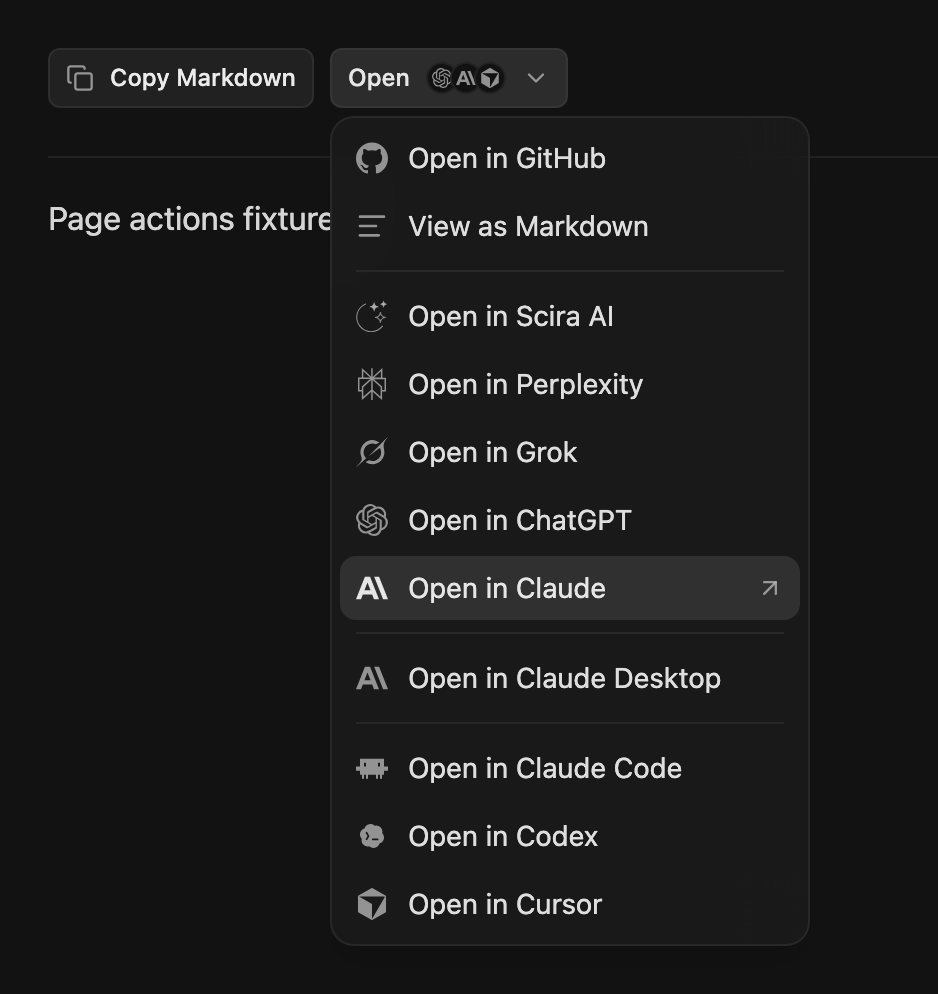
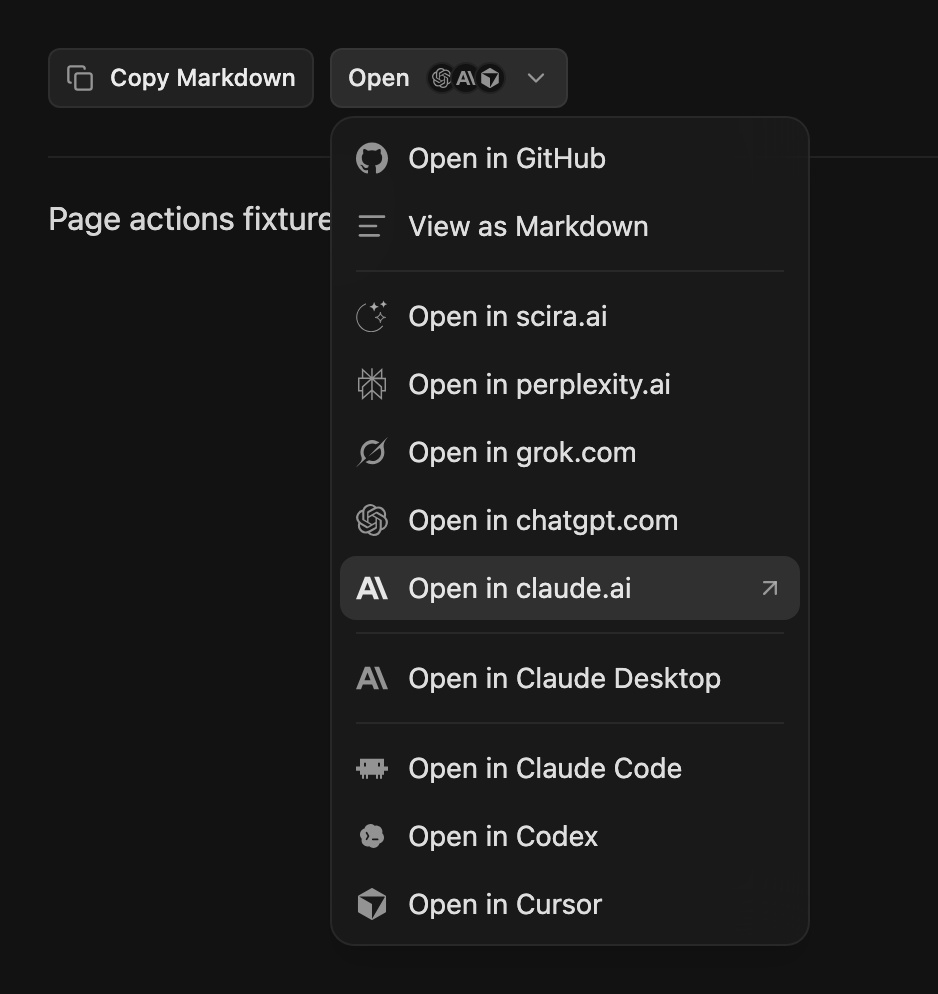
feat(page-actions): name web chats by domain and refine prompt

diff --git a/test/popover.browser.test.tsx b/test/popover.browser.test.tsx
@@ -23,11 +23,11 @@ const props: ViewOptionsPopoverProps = {
 const allTitles = [
   'Open in GitHub',
   'View as Markdown',
-  'Open in Scira AI',
-  'Open in Perplexity',
-  'Open in Grok',
-  'Open in ChatGPT',
-  'Open in Claude',
+  'Open in scira.ai',
+  'Open in perplexity.ai',
+  'Open in grok.com',
+  'Open in chatgpt.com',
+  'Open in claude.ai',
   'Open in Claude Desktop',
   'Open in Claude Code',
   'Open in Codex',
@@ -110,11 +110,11 @@ describe.each(entries)('ViewOptionsPopover from %s', (_, load) => {
       'Open in GitHub',
       'View as Markdown',
       '|',
-      'Open in Scira AI',
-      'Open in Perplexity',
-      'Open in Grok',
-      'Open in ChatGPT',
-      'Open in Claude',
+      'Open in scira.ai',
+      'Open in perplexity.ai',
+      'Open in grok.com',
+      'Open in chatgpt.com',
+      'Open in claude.ai',
       '|',
       'Open in Claude Desktop',
       '|',
@@ -136,7 +136,7 @@ describe.each(entries)('ViewOptionsPopover from %s', (_, load) => {
   it('names links by their text only', async () => {
     const trigger = await mount()
     await trigger.click()
-    await expect.element(link('Open in ChatGPT')).toBeVisible()
+    await expect.element(link('Open in chatgpt.com')).toBeVisible()
     expect(page.getByRole('link').elements()).toHaveLength(allTitles.length)
     for (const el of page.getByRole('link').elements()) {
       expect(el.querySelector('title')).toBeNull()
@@ -147,9 +147,9 @@ describe.each(entries)('ViewOptionsPopover from %s', (_, load) => {
   it('fills the page URL into the prompts', async () => {
     const trigger = await mount()
     await trigger.click()
-    await expect.element(link('Open in Claude')).toBeVisible()
-    expect(query('Open in Claude', 'q')).toBe(
-      `Read ${location.origin}${location.pathname}, I want to ask questions about it.`,
+    await expect.element(link('Open in claude.ai')).toBeVisible()
+    expect(query('Open in claude.ai', 'q')).toBe(
+      `Read ${location.origin}${location.pathname} in full first. I have some questions for you:`,
     )
     expect(query('Open in Claude Code', 'repo')).toBe('acme/docs')
     expect(query('Open in Claude Code', 'branch')).toBe('main')
@@ -158,8 +158,10 @@ describe.each(entries)('ViewOptionsPopover from %s', (_, load) => {
   it('uses the pageUrl prop over the current location', async () => {
     const trigger = await mount({ pageUrl: 'https://docs.acme.dev/intro' })
     await trigger.click()
-    await expect.element(link('Open in Claude')).toBeVisible()
-    expect(query('Open in Claude', 'q')).toContain('https://docs.acme.dev/intro,')
+    await expect.element(link('Open in claude.ai')).toBeVisible()
+    expect(query('Open in claude.ai', 'q')).toBe(
+      'Read https://docs.acme.dev/intro in full first. I have some questions for you:',
+    )
   })
 
   it('applies the items toggles to the menu and the trigger', async () => {
@@ -173,10 +175,10 @@ describe.each(entries)('ViewOptionsPopover from %s', (_, load) => {
       'Open in GitHub',
       'View as Markdown',
       '|',
-      'Open in Scira AI',
-      'Open in Perplexity',
-      'Open in ChatGPT',
-      'Open in Claude',
+      'Open in scira.ai',
+      'Open in perplexity.ai',
+      'Open in chatgpt.com',
+      'Open in claude.ai',
       '|',
       'Open in Cursor',
     ])
@@ -191,7 +193,7 @@ describe.each(entries)('ViewOptionsPopover from %s', (_, load) => {
     const trigger = await mount({ locale: 'zh-CN', labels: { open: '问 AI' } })
     await trigger.click()
     await expect.element(link('在 Claude 桌面版中打开')).toBeVisible()
-    expect(query('在 Claude 中打开', 'q')).toMatch(/^阅读 .+，我想询问相关问题。$/)
+    expect(query('在 claude.ai 中打开', 'q')).toMatch(/^请先完整阅读 .+，我有一些问题需要询问你：$/)
   })
 
   it('renders custom trigger children and forwards button props', async () => {
@@ -213,11 +215,11 @@ describe.each(entries)('ViewOptionsPopover from %s', (_, load) => {
     const el = trigger.element()
     const idle = getComputedStyle(el).backgroundColor
     await trigger.click()
-    await expect.element(link('Open in Claude')).toBeVisible()
+    await expect.element(link('Open in claude.ai')).toBeVisible()
     await settle()
     expect(getComputedStyle(el).backgroundColor).not.toBe(idle)
     await userEvent.keyboard('{Escape}')
-    await expect.element(link('Open in Claude')).not.toBeInTheDocument()
+    await expect.element(link('Open in claude.ai')).not.toBeInTheDocument()
   })
 
   it('shows the arrow and the full icon color on hover and keyboard focus', async () => {

diff --git a/src/page-actions/core.ts b/src/page-actions/core.ts
@@ -35,14 +35,14 @@ export type PageActionLocale = 'en' | 'zh-CN' | 'zh-TW'
 export const pageActionLabels: Record<PageActionLocale, PageActionLabels> = {
   'en': {
     'open': 'Open',
-    'prompt': 'Read {url}, I want to ask questions about it.',
+    'prompt': 'Read {url} in full first. I have some questions for you:',
     'github': 'Open in GitHub',
     'markdown': 'View as Markdown',
-    'scira': 'Open in Scira AI',
-    'perplexity': 'Open in Perplexity',
-    'grok': 'Open in Grok',
-    'chatgpt': 'Open in ChatGPT',
-    'claude': 'Open in Claude',
+    'scira': 'Open in scira.ai',
+    'perplexity': 'Open in perplexity.ai',
+    'grok': 'Open in grok.com',
+    'chatgpt': 'Open in chatgpt.com',
+    'claude': 'Open in claude.ai',
     'claude-desktop': 'Open in Claude Desktop',
     'claude-code': 'Open in Claude Code',
     'codex': 'Open in Codex',
@@ -50,14 +50,14 @@ export const pageActionLabels: Record<PageActionLocale, PageActionLabels> = {
   },
   'zh-CN': {
     'open': '打开',
-    'prompt': '阅读 {url}，我想询问相关问题。',
+    'prompt': '请先完整阅读 {url}，我有一些问题需要询问你：',
     'github': '在 GitHub 中打开',
     'markdown': '以 Markdown 查看',
-    'scira': '在 Scira AI 中打开',
-    'perplexity': '在 Perplexity 中打开',
-    'grok': '在 Grok 中打开',
-    'chatgpt': '在 ChatGPT 中打开',
-    'claude': '在 Claude 中打开',
+    'scira': '在 scira.ai 中打开',
+    'perplexity': '在 perplexity.ai 中打开',
+    'grok': '在 grok.com 中打开',
+    'chatgpt': '在 chatgpt.com 中打开',
+    'claude': '在 claude.ai 中打开',
     'claude-desktop': '在 Claude 桌面版中打开',
     'claude-code': '在 Claude Code 中打开',
     'codex': '在 Codex 中打开',
@@ -65,14 +65,14 @@ export const pageActionLabels: Record<PageActionLocale, PageActionLabels> = {
   },
   'zh-TW': {
     'open': '開啟',
-    'prompt': '閱讀 {url}，我想詢問相關問題。',
+    'prompt': '請先完整閱讀 {url}，我有一些問題需要詢問你：',
     'github': '在 GitHub 中開啟',
     'markdown': '以 Markdown 檢視',
-    'scira': '在 Scira AI 中開啟',
-    'perplexity': '在 Perplexity 中開啟',
-    'grok': '在 Grok 中開啟',
-    'chatgpt': '在 ChatGPT 中開啟',
-    'claude': '在 Claude 中開啟',
+    'scira': '在 scira.ai 中開啟',
+    'perplexity': '在 perplexity.ai 中開啟',
+    'grok': '在 grok.com 中開啟',
+    'chatgpt': '在 chatgpt.com 中開啟',
+    'claude': '在 claude.ai 中開啟',
     'claude-desktop': '在 Claude 桌面版中開啟',
     'claude-code': '在 Claude Code 中開啟',
     'codex': '在 Codex 中開啟',

diff --git a/e2e/checks.ts b/e2e/checks.ts
@@ -7,11 +7,11 @@ const defaultMenu = [
   'Open in GitHub',
   'View as Markdown',
   '|',
-  'Open in Scira AI',
-  'Open in Perplexity',
-  'Open in Grok',
-  'Open in ChatGPT',
-  'Open in Claude',
+  'Open in scira.ai',
+  'Open in perplexity.ai',
+  'Open in grok.com',
+  'Open in chatgpt.com',
+  'Open in claude.ai',
   '|',
   'Open in Claude Desktop',
   '|',
@@ -24,10 +24,10 @@ const customMenu = [
   '在 GitHub 中打开',
   '以 Markdown 查看',
   '|',
-  '在 Scira AI 中打开',
-  '在 Perplexity 中打开',
-  '在 ChatGPT 中打开',
-  '在 Claude 中打开',
+  '在 scira.ai 中打开',
+  '在 perplexity.ai 中打开',
+  '在 chatgpt.com 中打开',
+  '在 claude.ai 中打开',
   '|',
   '在 Cursor 中打开',
 ]
@@ -145,10 +145,11 @@ export async function checkApp(base: string, shots: string): Promise<number> {
 
     const href = (name: string) =>
       page.getByRole('link', { name, exact: true }).getAttribute('href')
-    const claude = new URL((await href('Open in Claude'))!)
+    const claude = new URL((await href('Open in claude.ai'))!)
     check(
       'prompt names the page URL',
-      claude.searchParams.get('q') === `Read ${base}/docs, I want to ask questions about it.`,
+      claude.searchParams.get('q') ===
+        `Read ${base}/docs in full first. I have some questions for you:`,
       claude.searchParams.get('q'),
     )
     const code = new URL((await href('Open in Claude Code'))!)
@@ -181,7 +182,7 @@ export async function checkApp(base: string, shots: string): Promise<number> {
 
     if (width > 500) {
       await page.mouse.move(0, 0)
-      await page.getByRole('link', { name: 'Open in Claude', exact: true }).hover()
+      await page.getByRole('link', { name: 'Open in claude.ai', exact: true }).hover()
       await settle(page)
       // the copy button, the trigger and the menu
       const box = await trigger.evaluate(el => {
@@ -229,12 +230,13 @@ export async function checkApp(base: string, shots: string): Promise<number> {
     )
     const zh = new URL(
       (await page
-        .getByRole('link', { name: '在 Claude 中打开', exact: true })
+        .getByRole('link', { name: '在 claude.ai 中打开', exact: true })
         .getAttribute('href'))!,
     )
     check(
       'pageUrl prop names the page',
-      zh.searchParams.get('q') === '阅读 https://docs.acme.dev/custom，我想询问相关问题。',
+      zh.searchParams.get('q') ===
+        '请先完整阅读 https://docs.acme.dev/custom，我有一些问题需要询问你：',
       zh.searchParams.get('q'),
     )
 

diff --git a/test/core.test.ts b/test/core.test.ts
@@ -70,7 +70,8 @@ describe('getPageActions', () => {
   })
 
   it('builds the provider URLs with the encoded prompt', () => {
-    const prompt = 'Read https://example.com/docs/intro, I want to ask questions about it.'
+    const prompt =
+      'Read https://example.com/docs/intro in full first. I have some questions for you:'
 
     expect(read(hrefOf(base, 'scira'))).toEqual({ q: prompt })
     expect(read(hrefOf(base, 'claude-desktop'))).toEqual({ q: prompt })
@@ -93,7 +94,7 @@ describe('getPageActions', () => {
   it('encodes characters that would break the query', () => {
     const href = hrefOf({ ...base, pageUrl: 'https://example.com/a?x=1&y=2#h' }, 'claude')
     expect(new URL(href!).searchParams.get('q')).toBe(
-      'Read https://example.com/a?x=1&y=2#h, I want to ask questions about it.',
+      'Read https://example.com/a?x=1&y=2#h in full first. I have some questions for you:',
     )
   })
 
@@ -117,12 +118,12 @@ describe('getPageActions', () => {
 
   it('uses the labels of the locale', () => {
     const groups = getPageActions({ ...base, labels: pageActionLabels['zh-CN'] })
-    expect(groups.flat().find(item => item.id === 'claude')?.title).toBe('在 Claude 中打开')
+    expect(groups.flat().find(item => item.id === 'claude')?.title).toBe('在 claude.ai 中打开')
     expect(
       new URL(hrefOf({ ...base, labels: pageActionLabels['zh-TW'] }, 'claude')!).searchParams.get(
         'q',
       ),
-    ).toBe('閱讀 https://example.com/docs/intro，我想詢問相關問題。')
+    ).toBe('請先完整閱讀 https://example.com/docs/intro，我有一些問題需要詢問你：')
   })
 
   it('prefixes the Vite base path to the Markdown URL', () => {
